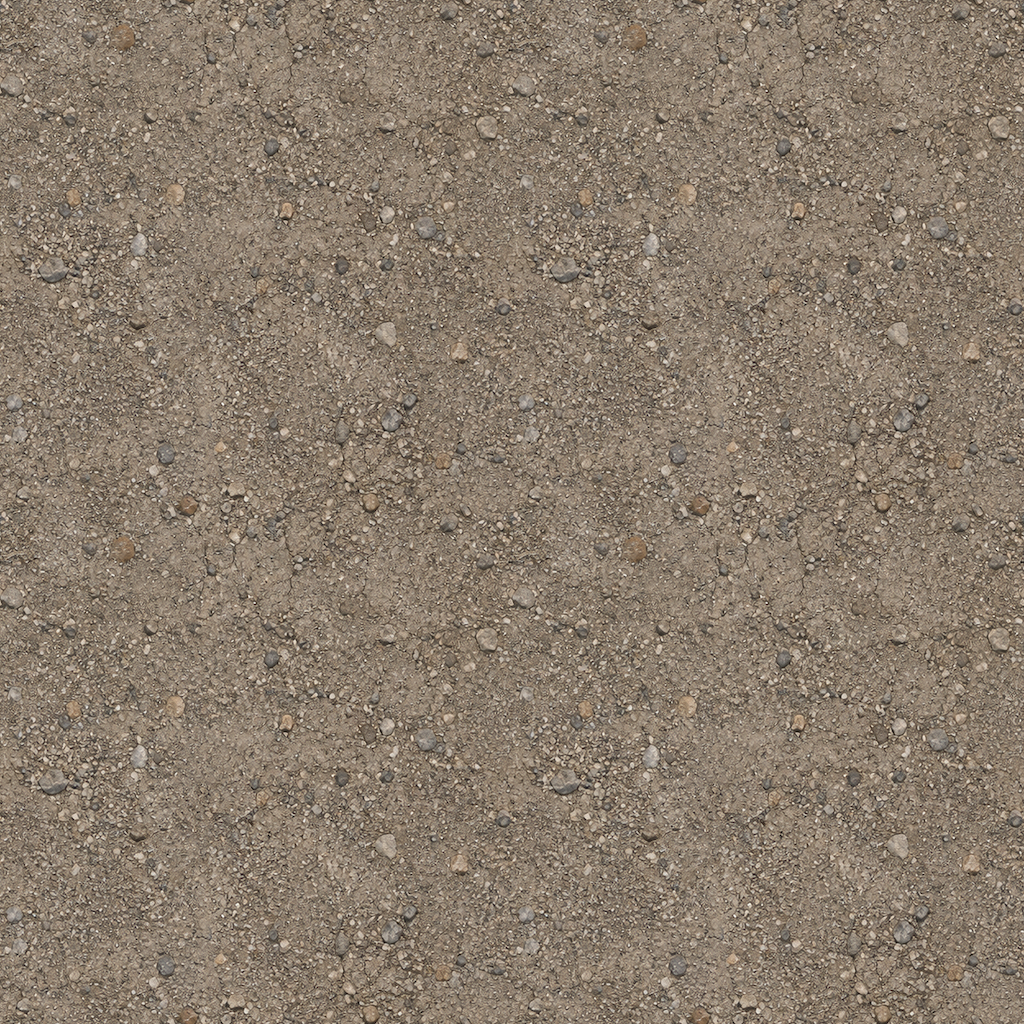
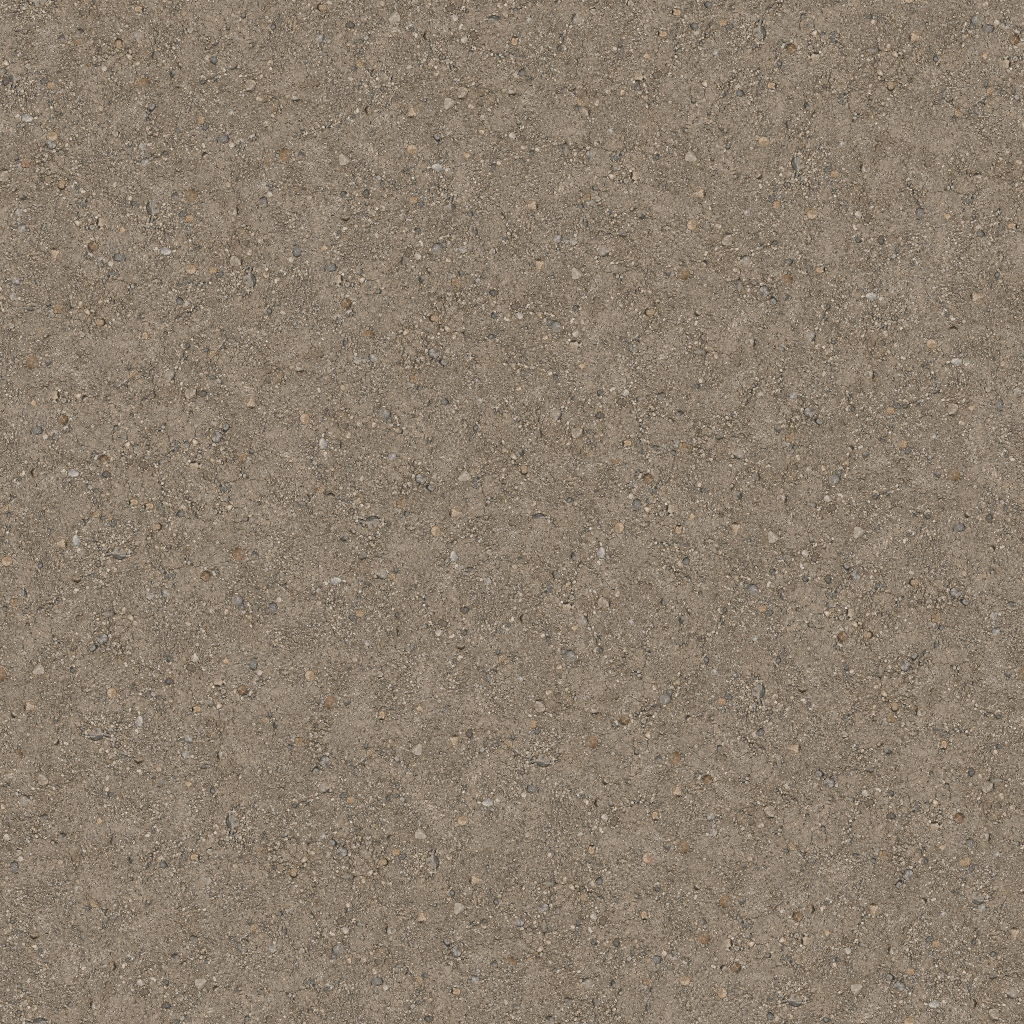
Roads: textures repeat every 12 m, catalogued in metres
The road textures repeated every 6 m, and the stones and patches each
holds lined up into a lattice along every road, most of all on dirt
and gravel. Their sources are now a 12 m tile at the same 1024 pixels,
quilted from the 6 m ones by tools/materials/quilt.py through
road_maps.py --lengthen 2: overlapping blocks of the old tile (any
offset, turned and mirrored; the pigment has no baked light) chosen to
match where they overlap and to use the old tile evenly, joined along
minimum-error cuts, wrapping so the result tiles. The neighbour field
(a blur of the height) is rebuilt from the quilted height, colour
averages in linear light. Video memory is unchanged; texels are
11.7 mm, which at the game's closest zoom look like the 5.9 mm before.

materials.json: roads give their metres, 12 at 1024 pixels, as terrain
surfaces do, instead of the renderer's implied 6 m.

The road projects: RepeatMetres is now the ground their tile covers
(12) and ReliefMetres the heightmap's height range in metres (asphalt
2.1 cm, dirt 5.4 cm, gravel 8.4 cm), as in the terrain projects. The
relief they make is what the old 1-metre values made, so the maps are
byte for byte the same. The Material node's depth_scale is 4 x
ReliefMetres / RepeatMetres, so the parallax keeps its depth in metres.

The maps are road_maps.py's export of the new sources, and tile.

README: what a loose entry's pixels and metres are, what changing each
does, and how to keep a project in step with them.
[…]

diff --git a/tools/materials/quilt.py b/tools/materials/quilt.py
@@ -1,0 +1,120 @@
+"""A larger tile from a seamless one, by image quilting on a torus (needs numpy and scipy).
+
+quilt(stack, weights, size): stack is H x W x C floats, a square texture that already tiles (every map or source field
+of one material, aligned); the result is size x size and tiles too. It is a grid of overlapping blocks, each a window
+of the texture (any offset, wrapping, in any of its eight rotations and mirror images, so the material must have no
+direction of its own, such as baked light), chosen among those that best match what is already placed where they
+overlap, preferring parts of the texture used least so far; a block replaces what lies beyond a minimum-error cut
+through each overlap, so grains stay whole. The last blocks overlap the first, so the result wraps. weights gives
+each channel's say in the matching and the cuts; every channel moves together.
+"""
+import numpy as np
+from scipy import fft
+from scipy.ndimage import gaussian_filter
+
+
+def _dihedral(a, v):
+    """The v-th (0..7) rotation or mirror image of a square array's first two axes."""
+    return np.rot90(a[:, ::-1] if v >= 4 else a, v % 4)
+
+
+def _source(v, y, x, side):
+    """The texel of the texture itself that _dihedral(texture, v) shows at (y, x)."""
+    n = side - 1
+    p, q = [(y, x), (x, n - y), (n - y, n - x), (n - x, y)][v % 4]
+    return np.array([p, n - q if v >= 4 else q])
+
+
+def _crowding(points, places, side, spread):
+    """For each point of the texture, how near the blocks already placed came from it, across the wrap."""
+    if not places:
+        return np.zeros(len(points))
+    d = np.abs(points[:, None, :] - np.asarray(places)[None, :, :])
+    d = np.minimum(d, side - d)
+    return np.exp(-(d ** 2).sum(-1) / (2 * spread ** 2)).sum(1)
+
+
+def _cut(cost):
+    """A path down cost (rows x columns), one column a row and at most one column of change a row, of minimum total."""
+    rows, cols = cost.shape
+    total = cost[0].copy()
+    back = np.zeros((rows, cols), np.int64)
+    for row in range(1, rows):
+        choice = np.stack([np.concatenate([[np.inf], total[:-1]]), total, np.concatenate([total[1:], [np.inf]])])
+        pick = choice.argmin(0)
+        back[row] = np.arange(cols) + pick - 1
+        total = choice[pick, np.arange(cols)] + cost[row]
+    path = np.empty(rows, np.int64)
+    path[-1] = int(total.argmin())
+    for row in range(rows - 1, 0, -1):
+        path[row - 1] = back[row, path[row]]
+    return path
+
+
+def quilt(stack, weights, size, block=176, overlap=48, tolerance=.08, reuse=.6, seed=1, progress=None):
+    side = stack.shape[0]
+    step = block - overlap
+    if stack.shape[1] != side or size % step:
+        raise ValueError(f'a square texture, and a size that is a multiple of {step}')
+    weights = np.asarray(weights, float)
+    matched = [c for c in range(stack.shape[2]) if weights[c] > 0]
+    variants = [np.ascontiguousarray(_dihedral(stack, v)) for v in range(8)]
+    # A window's mismatch at every offset at once, as correlations over the torus:
+    # sum over the overlap M of (S - T)^2 = corr(S^2, M) - 2 corr(S, M T) + const.
+    spectra = [{c: fft.rfft2(v[..., c], workers=-1) for c in matched} for v in variants]
+    squares = [fft.rfft2(sum(weights[c] * v[..., c] ** 2 for c in matched), workers=-1) for v in variants]
+    rng = np.random.default_rng(seed)
+    out = np.zeros((size, size, stack.shape[2]))
+    filled = np.zeros((size, size), bool)
+    places = []
+    blocks = size // step
+    for i in range(blocks):
+        for j in range(blocks):
+            rows = (np.arange(block) + i * step) % size
+            cols = (np.arange(block) + j * step) % size
+            target = out[np.ix_(rows, cols)]
+            known = filled[np.ix_(rows, cols)]
+            if known.any():
+                kernel = np.zeros((side, side))
+                kernel[:block, :block] = known
+                k_known = np.conj(fft.rfft2(kernel, workers=-1))
+                k_target = {}
+                for c in matched:
+                    kernel[:block, :block] = known * target[..., c]
+                    k_target[c] = np.conj(fft.rfft2(kernel, workers=-1))
+                costs = np.maximum(np.stack([fft.irfft2(squares[v] * k_known - 2 * sum(
+                      weights[c] * spectra[v][c] * k_target[c] for c in matched), s=(side, side), workers=-1)
+                      for v in range(8)]), 0)
+                best = costs.min()
+                candidates = np.argwhere(costs <= best * (1 + tolerance) + 1e-9)
+            else:
+                costs, best = None, 0.0
+                candidates = np.stack([rng.integers(0, 8, 400), rng.integers(0, side, 400),
+                                       rng.integers(0, side, 400)], 1)
+            if len(candidates) > 400:
+                candidates = candidates[rng.choice(len(candidates), 400, replace=False)]
+            centres = np.array([_source(v, (y + block // 2) % side, (x + block // 2) % side, side)
+                                for v, y, x in candidates])
+            score = reuse * _crowding(centres, places, side, block / 2) + rng.random(len(candidates)) * .02
+            if costs is not None:
+                score += costs[tuple(candidates.T)] / (best + 1e-9)
+            v, y, x = candidates[int(np.argmin(score))]
+            window = np.take(np.take(variants[v], (np.arange(block) + y) % side, 0), (np.arange(block) + x) % side, 1)
+            # The block replaces what is there beyond a cut through each side whose strip is already placed.
+            error = (((window - target) ** 2) * weights).sum(-1)
+            take = np.ones((block, block))
+            if known[:, :overlap].all():
+                for r, c in enumerate(_cut(error[:, :overlap])): take[r, :c] = 0
+            if known[:, -overlap:].all():
+                for r, c in enumerate(_cut(error[:, -overlap:])): take[r, block - overlap + c + 1:] = 0
+            if known[:overlap].all():
+                for c, r in enumerate(_cut(error[:overlap].T)): take[:r, c] = 0
+            if known[-overlap:].all():
+                for c, r in enumerate(_cut(error[-overlap:].T)): take[block - overlap + r + 1:, c] = 0
+            take = np.where(known, gaussian_filter(take, 1.0), 1.0)[..., None]
+            out[np.ix_(rows, cols)] = take * window + (1 - take) * target
+            filled[np.ix_(rows, cols)] = True
+            places.append(_source(v, (y + block // 2) % side, (x + block // 2) % side, side))
+        if progress:
+            progress(i + 1, blocks)
+    return out

diff --git a/tools/materials/roads/road_maps.py b/tools/materials/roads/road_maps.py
@@ -1,4 +1,5 @@
-"""The road projects' maps without Material Maker: python tools/materials/roads/road_maps.py [--make-seamless] [name...]
+"""The road projects' maps without Material Maker: python tools/materials/roads/road_maps.py [--make-seamless]
+[--lengthen N] [name...]
 
 Each road project (asphalt, dirt, gravel) builds its maps from sources/: pigment.png, and structure-high.png /
 structure-low.png, the high and low bytes of four 16-bit fields (R height, G neighbour height, B and A unused). This is
@@ -6,7 +7,10 @@ its graph in numpy: the height quantized to 8 bits; normals from wrapped central
 roughness clamp(BaseRoughness + HeightRoughness * (.5 - h), .4, .98); occlusion exp(-CavityStrength * max(neighbour -
 h, 0)). It wrote the shipped maps' bytes from the same sources (normals within one code on a few hundred texels), and
 writes them into data/models/board/textures/roads, as the editor's export does. --make-seamless first makes the sources
-tile (seamless.py); run it only on sources that show their tile grid. Needs numpy, scipy and Pillow.
+tile (seamless.py); run it only on sources that show their tile grid. --lengthen N first quilts the sources (quilt.py)
+into a tile covering N times their ground at the same size, from pieces of themselves (the neighbour field, a blur of
+the height, is rebuilt from the quilted height); then multiply the project's RepeatMetres and the catalogue's metres by
+N, and divide its Material node's depth_scale by N (tools/materials/README.md). Needs numpy, scipy and Pillow.
 """
 import argparse
 import json
@@ -15,8 +19,10 @@ from pathlib import Path
 
 import numpy as np
 from PIL import Image, PngImagePlugin
+from scipy.ndimage import gaussian_filter
 
 sys.path.insert(0, str(Path(__file__).resolve().parent.parent))
+import quilt  # noqa: E402
 import seamless  # noqa: E402
 
 HERE = Path(__file__).resolve().parent
@@ -59,27 +65,71 @@ def maps(project):
     }
 
 
+def save_sources(sources, pigment, structure):
+    """pigment: sRGB, 0..1; structure: the four fields, 0..1."""
+    Image.fromarray(np.round(np.clip(pigment, 0, 1) * 255).astype(np.uint8), 'RGB').save(sources / 'pigment.png')
+    codes = np.round(np.clip(structure, 0, 1) * 65535).astype(np.int64)
+    Image.fromarray((codes // 256).astype(np.uint8), 'RGBA').save(sources / 'structure-high.png')
+    Image.fromarray((codes % 256).astype(np.uint8), 'RGBA').save(sources / 'structure-low.png')
+
+
 def make_seamless(sources):
     pigment = np.asarray(Image.open(sources / 'pigment.png').convert('RGB')) / 255.0
     stack = np.concatenate([pigment, fields(sources)], -1)
     spread = stack.reshape(-1, stack.shape[-1]).var(0) + 1e-9
     # Where the cut runs follows what shows: pigment, height (twice: normals, roughness, occlusion) and neighbour.
-    out = np.clip(seamless.seamless(stack, np.array([1, 1, 1, 2, 1, 0, 0]) / spread), 0, 1)
-    Image.fromarray(np.round(out[..., :3] * 255).astype(np.uint8), 'RGB').save(sources / 'pigment.png')
-    codes = np.round(out[..., 3:] * 65535).astype(np.int64)
-    Image.fromarray((codes // 256).astype(np.uint8), 'RGBA').save(sources / 'structure-high.png')
-    Image.fromarray((codes % 256).astype(np.uint8), 'RGBA').save(sources / 'structure-low.png')
+    out = seamless.seamless(stack, np.array([1, 1, 1, 2, 1, 0, 0]) / spread)
+    save_sources(sources, out[..., :3], out[..., 3:])
+
+
+def linear(c):
+    return np.where(c <= .04045, c / 12.92, ((c + .055) / 1.055) ** 2.4)
+
+
+def srgb(c):
+    c = np.clip(c, 0, None)
+    return np.where(c <= .0031308, c * 12.92, 1.055 * c ** (1 / 2.4) - .055)
+
+
+def lengthen(sources, factor):
+    pigment = np.asarray(Image.open(sources / 'pigment.png').convert('RGB')) / 255.0
+    structure = fields(sources)
+    height, side = structure[..., 0], structure.shape[0]
+    # The neighbour field is the height blurred: its blur and scale, to rebuild it from the quilted height.
+    fits = []
+    for sigma in np.arange(2, 8.01, .25):
+        blurred = gaussian_filter(height, sigma, mode='wrap').ravel()
+        coef, residual = np.linalg.lstsq(np.stack([blurred, np.ones_like(blurred)], 1), structure[..., 1].ravel(),
+                                         rcond=None)[:2]
+        fits.append((residual[0], sigma, coef))
+    _, sigma, (scale, offset) = min(fits, key=lambda fit: fit[0])
+    stack = np.concatenate([linear(pigment), height[..., None]], -1)
+    # Matched on what shows: the pigment, and the height twice (normals, roughness, occlusion).
+    weights = np.array([1, 1, 1, 2]) / (stack.reshape(-1, 4).var(0) + 1e-9)
+    out = quilt.quilt(stack, weights, side * factor,
+                      progress=lambda done, total: print(f'  {sources.parent.name}: {done}/{total}', flush=True))
+    neighbour = scale * gaussian_filter(out[..., 3], sigma, mode='wrap') + offset
+
+    def shrink(a):  # back to the sources' size, averaging each factor x factor square
+        return a.reshape(side, factor, side, factor, *a.shape[2:]).mean((1, 3))
+
+    structure[..., 0], structure[..., 1] = shrink(out[..., 3]), shrink(neighbour)
+    # The colour averages in linear light; the unused fields keep their values.
+    save_sources(sources, srgb(shrink(out[..., :3])), structure)
 
 
 def main():
     parser = argparse.ArgumentParser(description=__doc__.splitlines()[0])
     parser.add_argument('--make-seamless', action='store_true')
+    parser.add_argument('--lengthen', type=int, default=1, metavar='N')
     parser.add_argument('names', nargs='*', default=['asphalt', 'dirt', 'gravel'])
     args = parser.parse_args()
     for name in args.names:
         project = HERE / name / f'{name}.ptex'
         if args.make_seamless:
             make_seamless(project.parent / 'sources')
+        if args.lengthen > 1:
+            lengthen(project.parent / 'sources', args.lengthen)
         written = maps(project)
         srgb = PngImagePlugin.PngInfo()
         srgb.add(b'sRGB', b'\x00')  # as the export writes its albedo

diff --git a/tools/materials/README.md b/tools/materials/README.md
@@ -101,28 +101,56 @@ scorch build their own roughness.
 `data/models/board/textures/materials.json` sorts every material:
 
 - **Loose** materials repeat across the board: terrain surfaces, roads, lava, ice and
-  industrial plating. Each entry gives the width it was catalogued at (`pixels`). Terrain
-  surfaces also give the metres one repeat spans at that width (`metres`).
+  industrial plating.
 - **Constrained** materials fit a footprint: facades, classic tiles, scars, scenery and
-  plant cutouts.
+  plant cutouts. Their texture size never changes what they cover.
+
+A loose entry has up to two values:
+
+| Value | What it is | What changing it does |
+| --- | --- | --- |
+| `pixels` | The texture width the entry describes: with `metres`, the texel density (`metres` ÷ `pixels` per texel). | Changes no pattern size by itself. A texture exported wider than `pixels` covers proportionally more ground before it repeats, at the same density (2048 pixels catalogued at 1024 cover twice `metres`); narrower, less. |
+| `metres` | The ground one repeat covers at `pixels` wide. Terrain surfaces and roads; lava, ice and industrial plating repeat as the game sets, and give `pixels` alone. | Stretches or shrinks the material on the ground: its stones, cracks and grain grow or shrink with its repeat. |
+
+A texture so covers `metres` × (its width ÷ `pixels`) before it repeats. Roads are 1024 pixels
+over 12 m (11.7 mm a texel), grass 512 pixels over 4 m (7.8 mm).
+
+To edit them safely:
+
+- **Sharper or softer, same pattern:** export the same project at another size and set `pixels`
+  to the new width; `metres` stays.
+- **Longer before it repeats, features the same size:** the texture needs more content. Export
+  wider from a project whose pattern is enlarged to match (more features, *RepeatMetres* times
+  the same factor) and leave the catalogue as it is: the wider texture covers more ground. For a
+  road, `road_maps.py --lengthen N` (below) makes that content at the same width; then multiply
+  `metres` by N.
+- **Bigger or smaller features:** change `metres`, and keep the project in step with it. A
+  project's *RepeatMetres* is the ground its exported tile covers, `metres` × (its width ÷
+  `pixels`), and must match it, or its normals come out too steep or too flat; *ReliefMetres* is
+  the height range of its heightmap in metres. A road project's Material node takes
+  *depth_scale* = 4 × *ReliefMetres* ÷ *RepeatMetres*, so the parallax depth is that relief too.
+- Maps stay square, and must tile (below).
+
+*Reload assets* in the game's Tuning panel re-reads the catalogue with the maps and shows a
+change at once. Catalogue every new material: a loose one needs its entry to load, and megamek's
+`GpuBoardMaterialsTest` requires every material to be listed, and `metres` for every terrain
+surface and road.
 
 A loose material repeats edge to edge, so every one of its maps must tile without a seam: what
-leaves the right edge comes back on the left, and the bottom meets the top. A road repeats every
-6 m (one hex width ÷ 5). The road projects build their maps from images in `sources/` (pigment,
-and the two byte planes of their 16-bit height fields); those images tile seamlessly, and an
-edit to them must keep them so, or every road shows its tile grid.
+leaves the right edge comes back on the left, and the bottom meets the top. The road projects
+build their maps from images in `sources/` (pigment, and the two byte planes of their 16-bit
+height fields); those images tile seamlessly, and an edit to them must keep them so, or every
+road shows its tile grid. A road's 12 m also keeps its pattern of stones and patches from lining
+up into a lattice along the road, as it did at 6 m.
 `tools/materials/roads/road_maps.py` writes the road maps from their sources as the export does,
 without Material Maker, and reports how much each map changes across its tile edge;
-`--make-seamless` first makes sources that show their grid tile (`tools/materials/seamless.py`,
-which needs numpy and scipy).
-
-The game keeps a loose material's texel density. Export grass, catalogued at 512 pixels and
-4 m, at 1024 pixels and it covers 8 m before repeating. The pattern then also needs
-to be twice as large in the project, for example by doubling its feature counts and
-*Repeat (metres)*. Its maps must stay square. To change a density instead, change `metres`
-in the catalogue; *Reload assets* in the game's Tuning panel re-reads it and shows the new
-density at once. Catalogue every new material too: a loose one needs its entry to load,
-and megamek's `GpuBoardMaterialsTest` requires every material to be listed.
+`--make-seamless` first makes sources that show their grid tile (`tools/materials/seamless.py`),
+and `--lengthen N` quilts the sources into a tile covering N times their ground at the same size,
+from pieces of themselves (`tools/materials/quilt.py`; the material must have no direction of its
+own, such as baked light, as pieces are turned and mirrored). The road sources' 12 m came from
+6 m ones with `--lengthen 2`. After it, multiply the project's *RepeatMetres* and the catalogue's
+`metres` by N and divide its *depth_scale* by N (its *ReliefMetres* stays). Both scripts need
+numpy and scipy.
 
 ## Exporting
 
